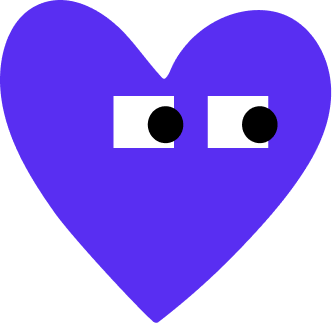
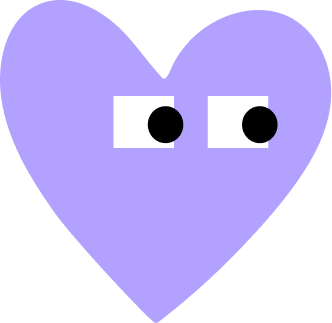
Timeline changed to Activities and colours updated

diff --git a/src/components/ActivitiesItem.tsx b/src/components/ActivitiesItem.tsx
@@ -1,20 +1,20 @@
 import Colors from "@constants/Colors";
 import { Image, StyleSheet, Text, View } from "react-native";
-import { Timeline } from "../types";
+import { Activities } from "../types";
 
-type TimelineItemProps = {
-  timeline: Timeline;
+type ActivitiesItemProps = {
+  activities: Activities;
 };
 
-const TimelineItem = ({ timeline }: TimelineItemProps) => {
+const ActivitiesItem = ({ activities }: ActivitiesItemProps) => {
   return (
     <View>
-      <View style={styles.timelineText}>
-        <Text style={styles.title}>Timeline</Text>
-        <Text style={styles.headline}>{timeline.headline}</Text>
+      <View style={styles.activitiesText}>
+        <Text style={styles.title}>Activities</Text>
+        <Text style={styles.headline}>{activities.headline}</Text>
         <Text style={styles.seemore}>See more...</Text>
       </View>
-      <View style={styles.timelineImage}>
+      <View style={styles.activitiesImage}>
         <Image
           source={require("@assets/images/heart.png")}
           style={styles.heartLogo}
@@ -24,11 +24,11 @@ const TimelineItem = ({ timeline }: TimelineItemProps) => {
   );
 };
 
-export default TimelineItem;
+export default ActivitiesItem;
 
 const styles = StyleSheet.create({
-  timelineText: {
-    backgroundColor: "#B2A1FF",
+  activitiesText: {
+    backgroundColor: "#592EF2",
     marginHorizontal: 20,
     padding: 20,
     borderRadius: 25,
@@ -36,7 +36,7 @@ const styles = StyleSheet.create({
     justifyContent: "center",
     height: 180,
   },
-  timelineImage: {
+  activitiesImage: {
     position: "absolute",
     marginHorizontal: 10,
     marginTop: 45,

diff --git a/src/app/(tabs)/index.tsx b/src/app/(tabs)/index.tsx
@@ -1,18 +1,18 @@
+import ActivitiesItem from "@/components/ActivitiesItem";
 import BottomItems from "@/components/BottomItems";
 import CalendarItem from "@/components/CalendarItem";
 import EventChild from "@/components/EventChild";
 import FamilyItem from "@/components/FamilyItem";
-import TimelineItem from "@/components/TimelineItem";
+import activities from "@assets/data/activities";
 import calendar from "@assets/data/calendar";
 import events from "@assets/data/events";
 import family from "@assets/data/family";
-import timelines from "@assets/data/timelines";
 import { View } from "react-native";
 
 export default function HomeScreen() {
   return (
     <View>
-      <TimelineItem timeline={timelines[0]} />
+      <ActivitiesItem activities={activities[0]} />
       <EventChild event={events[0]} />
       <CalendarItem calendar={calendar[0]} />
       <FamilyItem family={family[0]} />

diff --git a/assets/data/activities.ts b/assets/data/activities.ts
@@ -1,4 +1,4 @@
-const timelines = [
+const activities = [
   {
     id: 1,
     headline: 'Emotion Faces Matching Games',
@@ -18,4 +18,4 @@ const timelines = [
 
 ];
 
-export default timelines;
+export default activities;

diff --git a/src/types.ts b/src/types.ts
@@ -1,4 +1,4 @@
-export type Timeline = {
+export type Activities = {
   id: number;
   headline: string;
   date: string;
